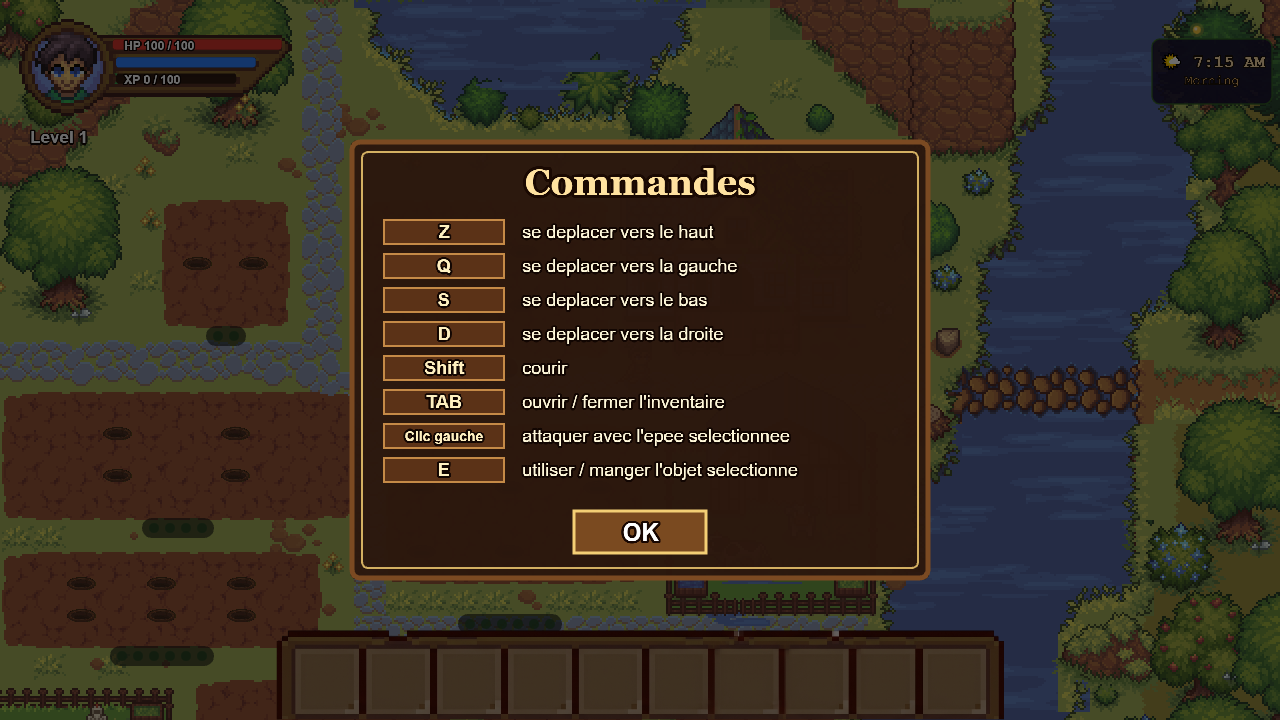
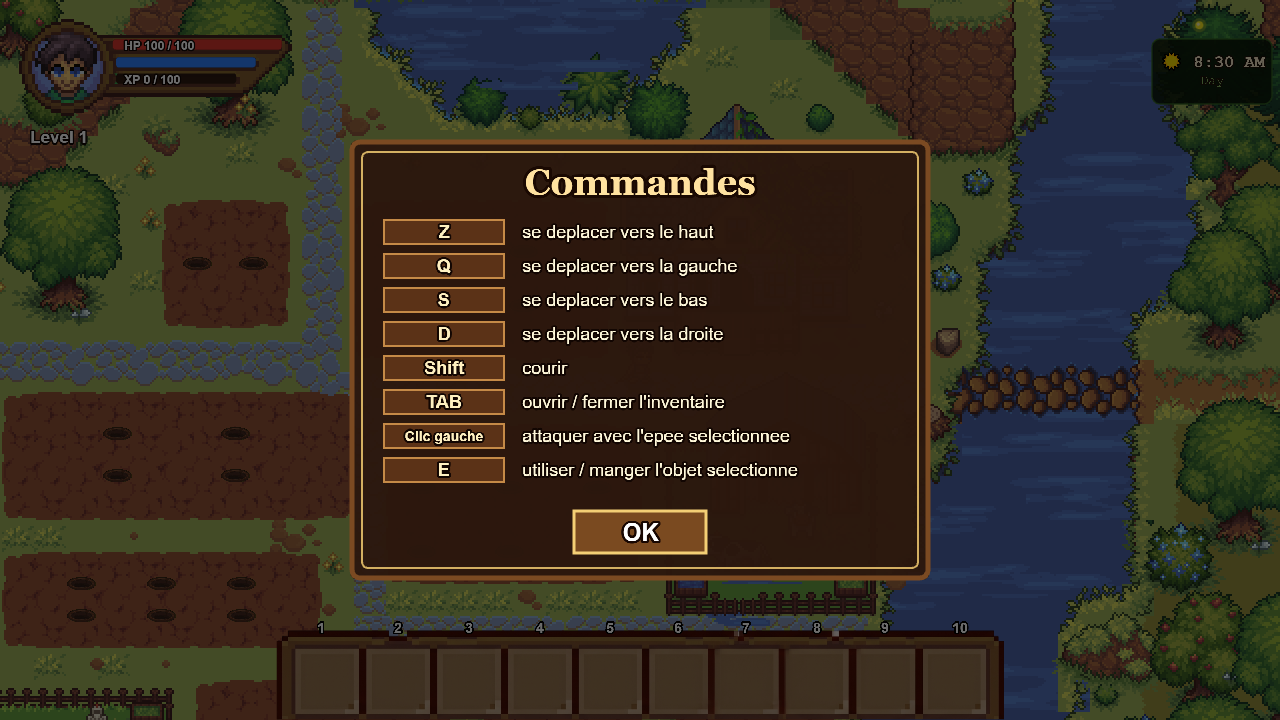
update

diff --git a/js/systems/FarmingSystem.js b/js/systems/FarmingSystem.js
@@ -195,35 +195,9 @@ class FarmingSystem {
   }
 
   updateLabels() {
-    const px = this.player.x, py = this.player.y;
-    const dist = CFG.PLAYER.INTERACT_DIST * 1.1;
-    let closest = null, closestDist = dist;
-    
     for (const p of this._plots) {
-      const d = Phaser.Math.Distance.Between(px, py, p.cx, p.cy);
-      if (d < closestDist) { closestDist = d; closest = p; }
-    }
-    
-    for (const p of this._plots) {
-      const isClosest = p === closest;
       if (!p.label) continue;
-      if (!isClosest) { p.label.setVisible(false); continue; }
-
-      const harvReady = p.crops.filter(c => FarmingSystem.CROP_TYPES[c.key] && c.stage >= FarmingSystem.CROP_TYPES[c.key].stages).length;
-      const growing   = p.crops.filter(c => FarmingSystem.CROP_TYPES[c.key] && c.stage < FarmingSystem.CROP_TYPES[c.key].stages).length;
-      const empty     = p.capacity - p.crops.length;
-
-      let msg = '';
-      if (harvReady > 0) msg += `[F] Harvest (${harvReady} ready)`;
-      else if (this._selectedSeed && empty > 0) msg += `Click a hole to plant ${FarmingSystem.CROP_TYPES[this._selectedSeed]?.label}`;
-      else if (growing > 0) msg += `Growing (${growing}/${p.capacity})`;
-      else msg += `Empty plot (${p.capacity} slots)`;
-      
-      p.label.setText(msg.trim())
-             .setStyle({
-               fontFamily: 'Arial, sans-serif', fontSize: '11px', fontStyle: 'bold',
-               fill: harvReady > 0 ? '#55ff55' : '#ffffff', stroke: '#000000', strokeThickness: 3, resolution: 2
-             }).setVisible(true);
+      p.label.setVisible(false);
     }
   }
 
@@ -428,7 +402,7 @@ class FarmingSystem {
     const label = this.scene.add.text(cx, labelY, '', {})
       .setOrigin(0.5).setDepth(9999).setVisible(false).setScale(0.5);
 
-    const dots = this.scene.add.graphics().setDepth(9050);
+    const dots = this.scene.add.graphics().setDepth(9050).setVisible(false);
     this._drawCapacityDots(dots, cx, cy + h/2 + 4, capacity, 0);
 
     const tempPlot = { cx, cy, w, h }; // Everything else now builds off this new shifted `cx`
@@ -465,22 +439,7 @@ class FarmingSystem {
 
   _drawCapacityDots(g, x, y, total, filled) {
     g.clear();
-    const dotR = 2.5, gap = 8;
-    const startX = x - ((total-1)*gap)/2;
-    
-    g.fillStyle(0x111111, 0.6);
-    g.fillRoundedRect(startX - 6, y - 5, (total-1)*gap + 12, 10, 5);
-
-    for (let i = 0; i < total; i++) {
-      const isFilled = i < filled;
-      g.fillStyle(isFilled ? 0x55ff55 : 0x224422, isFilled ? 1.0 : 0.8);
-      g.fillCircle(startX + i*gap, y, dotR);
-      
-      if (isFilled) {
-        g.fillStyle(0xaaffaa, 0.4);
-        g.fillCircle(startX + i*gap, y, dotR + 1.5);
-      }
-    }
+    g.setVisible(false);
   }
 
   _buildSeedHUD() {}

diff --git a/js/config/GameConfig.js b/js/config/GameConfig.js
@@ -392,7 +392,7 @@ const CFG = {
     RESPAWN_MS: 5 * 60 * 1000,
     SPAWNS: [
       { type: 'slime', tileX: 55, tileY: 111 },
-      { type: 'slime', tileX: 79, tileY: 112 },
+      { type: 'slime', tileX: 37, tileY: 107 },
       { type: 'slime', tileX: 101, tileY: 112 },
       { type: 'goblin', tileX: 114, tileY: 92 },
       { type: 'goblin', tileX: 55, tileY: 77 },

diff --git a/progress.md b/progress.md
@@ -44,6 +44,17 @@ Progress:
 TODO:
 - No open TODOs.
 
+- Current prompt: Deplacer le spawn de slime existant proche de tile 78,111 vers tile 37,107 sans creer de doublon ni modifier stats/animations/comportement.
+- Replaced the existing nearby slime spawn in CFG.ENEMIES.SPAWNS from tile 79,112 to tile 37,107. The requested old coordinate was approximate; the existing configured spawn nearest 78,111 was 79,112. No other slime spawns, enemy stats, animations, behavior, or 5 minute respawn config were changed.
+- Verified map data for tile 37,107: no collision tile/object hit; top visible tile is non-water ground while a lower decorative water-detail layer is covered by ground. Visual screenshot confirms the slime appears on walkable land. Updated slime-spawn-test and sword-ui-test expectations to the new tile.
+- Verified with Playwright: slime-spawn-test passes for exactly 3 slimes/20 enemies, no old 79,112 slime, new 37,107 -> pixel 600,1720, damage, death, 5 minute respawn and no duplicate; sword-ui-test passes for ZQSD/TAB/hotbar/sword attack flow and updated spawn list; develop-web-game smoke client ran against http://127.0.0.1:8125/.
+- Current prompt: Retirer tous les messages affiches quand le joueur passe pres des parcelles de plantation, sans casser farming.
+- Disabled only FarmingSystem plot proximity labels by making updateLabels keep each plot label hidden. Removed dynamic generation of Empty plot (... slots), Click a hole, Growing, and Harvest proximity text from farming plot labels. Plots, holes, capacity dots, planting, growth, harvest, inventory, hotbar, and action notifications remain unchanged.
+- Verified with Playwright: farming-plot-label-test confirms 8 plots/36 holes still exist, no plot label text or visibility near empty/selected/growing/ready/after-harvest states, and harvest still adds output/removes crop. seed-depletion-test and hotbar-inventory-transfer-test pass for planting, seed consumption and hotbar/inventory behavior. develop-web-game smoke client passed with a longer timeout; visually inspected farming-plot-label-test.png and output/web-game/shot-2.png.
+- Current prompt clarification: supprimer uniquement la barre de slots des parcelles (ronds verts), pas les barres de croissance individuelles des plantes.
+- Disabled FarmingSystem capacity dots by keeping plot.dots hidden and making _drawCapacityDots clear/no-op. Left crop.barGfx and _drawCropBar unchanged, so each planted crop still displays its small growth progress bar.
+- Verified with Playwright: farming-plot-label-test now asserts every plot dots graphic is hidden with zero draw commands while growing/ready crop bars remain visible. seed-depletion-test and hotbar-inventory-transfer-test still pass. Visual inspection of farming-plot-growth-bar-test.png confirms a crop growth bar remains visible and the slot-dot bar is gone. develop-web-game smoke client passed.
+
 - Current prompt: Forcer le rendu visible des nouvelles icones Bronze Ore, Iron Ore et Gold Ore dans l'inventaire TAB et la hotbar.
 - Switched the three ore inventory textures to cache-busted Phaser keys inv_icon_bronze_ore_v2, inv_icon_iron_ore_v2, and inv_icon_gold_ore_v2. InventorySystem and HotbarSystem now resolve real item keys bronze/iron/gold to these versioned keys before any stale passed iconKey, fit those icons into fixed visible boxes, and center ore drag ghosts. MiningSystem now gives newly mined ore stacks the same versioned iconKey. Relevant script tags in index.html are versioned so the browser does not keep stale JS.
 - Verified against the already-running local server at http://127.0.0.1:8127/ without launching a new server: ore-icon-swap-test passes, confirms all three 32x32 textures load, inventory renders the new icon keys, drag ghosts fit, and hotbar slots render inv_icon_bronze_ore_v2 / inv_icon_iron_ore_v2 / inv_icon_gold_ore_v2. Visually inspected test-results/ore-icon-inventory-test.png and test-results/ore-icon-swap-test.png.
